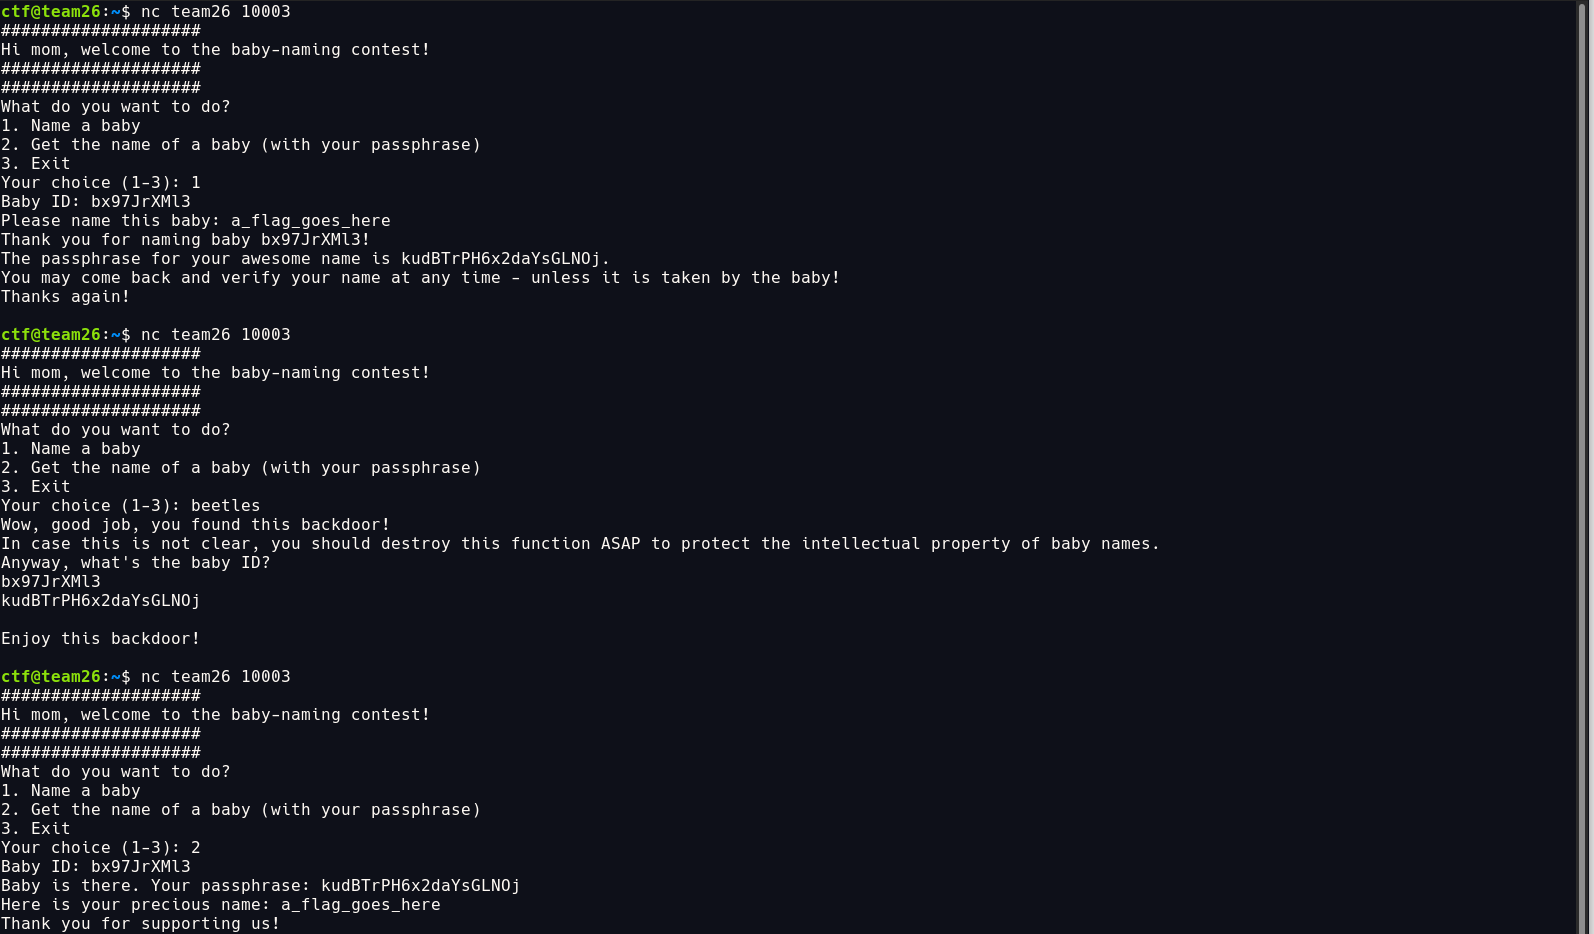
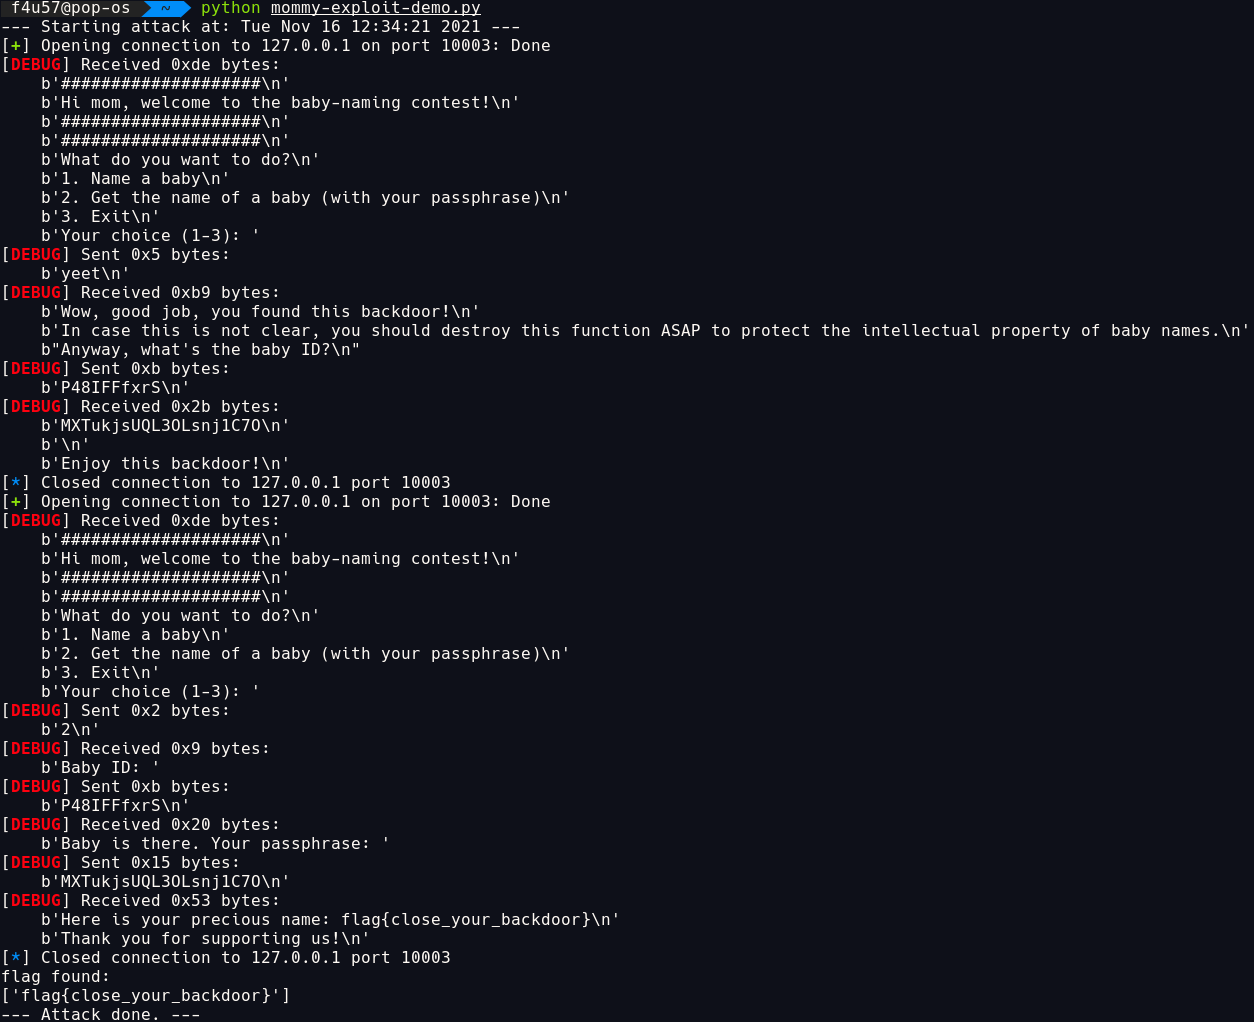
added demo and minor changes

Changed region(s): [[0.0, 0.0, 0.7153, 1.0], [0.5909, 0.0, 1.0, 1.0]]

diff --git a/docs/_posts/2021-11-13-actf3-writup.md b/docs/_posts/2021-11-13-actf3-writup.md
@@ -1,7 +1,7 @@
 ---
 layout: single
 title:  "aCTF3 - mommyservice Writeup"
-last_modified_at: 2021-11-15
+last_modified_at: 2021-11-16
 ---
 
 A post about the `mommyservice` from `aCTF3`.
@@ -37,7 +37,7 @@ I spent the entire time on `mommyservice`, so I will only talk about that in thi
 
 # Code review and interacting with mommyservice
 
-## main serv()
+## Main serv()
 
 I looked at the source code first before interacting with the service.
 
@@ -98,13 +98,17 @@ So, we need to:
 1. send each team's `flag_id` to `backdoor()` to get password of `flag_id`.
 2. send `flag_id` and its password to `get_baby_name`, which is the name of `flag_id`.
 
-I created my own baby name `a_flag_goes_here`, which have `bx97JrXMl3` as its `baby_id` and `kudBTrPH6x2daYsGlNOj` as its password.
+### Demo 
+
+For this demo, I created my own baby name `flag{close_your_backdoor}`, which have `P48IFFfxrS` as its `baby_id` and `MXTukjsUQL3OLsnj1C7O` as its password
 
 ![](../assets/posts/2021-11-13-actf3-writup/images/backdoor_demo.png)
 
-### patch
+### Patch
 
 We patched this by just not calling it in the main service function, replace `backdoor()` with `pass`.
+
+![](../assets/posts/2021-11-13-actf3-writup/images/backdoor_patched.png)
 
 ## get_baby_name() :fire:
 
@@ -194,7 +198,16 @@ if __name__ == "__main__":
     for i in range(4):
         verify();
 ```
-### patch
+
+### Demo 
+
+For this demo, I created my own baby name `flag{all_is_not_any}`, which have `rFHFHXfRa4` as its `baby_id` and `zK0VBBADEPnGODHVBFjN` as its password
+
+![](../assets/posts/2021-11-13-actf3-writup/images/get_baby_demo.png)
+
+![](../assets/posts/2021-11-13-actf3-writup/images/get_baby_demo2.png)
+
+### Patch
 
 We patched this by changing `any` to `all` in the check condition within the function.
 
@@ -203,6 +216,8 @@ This will check if **all** of our input hash bytes (`b0`) match **all** of the p
 ```python
 if all(b0 == b1 for b0, b1 in zip(hash_0, hash_1)):
 ```
+
+![](../assets/posts/2021-11-13-actf3-writup/images/get_baby_patched.png)
 
 # Scripts
 
